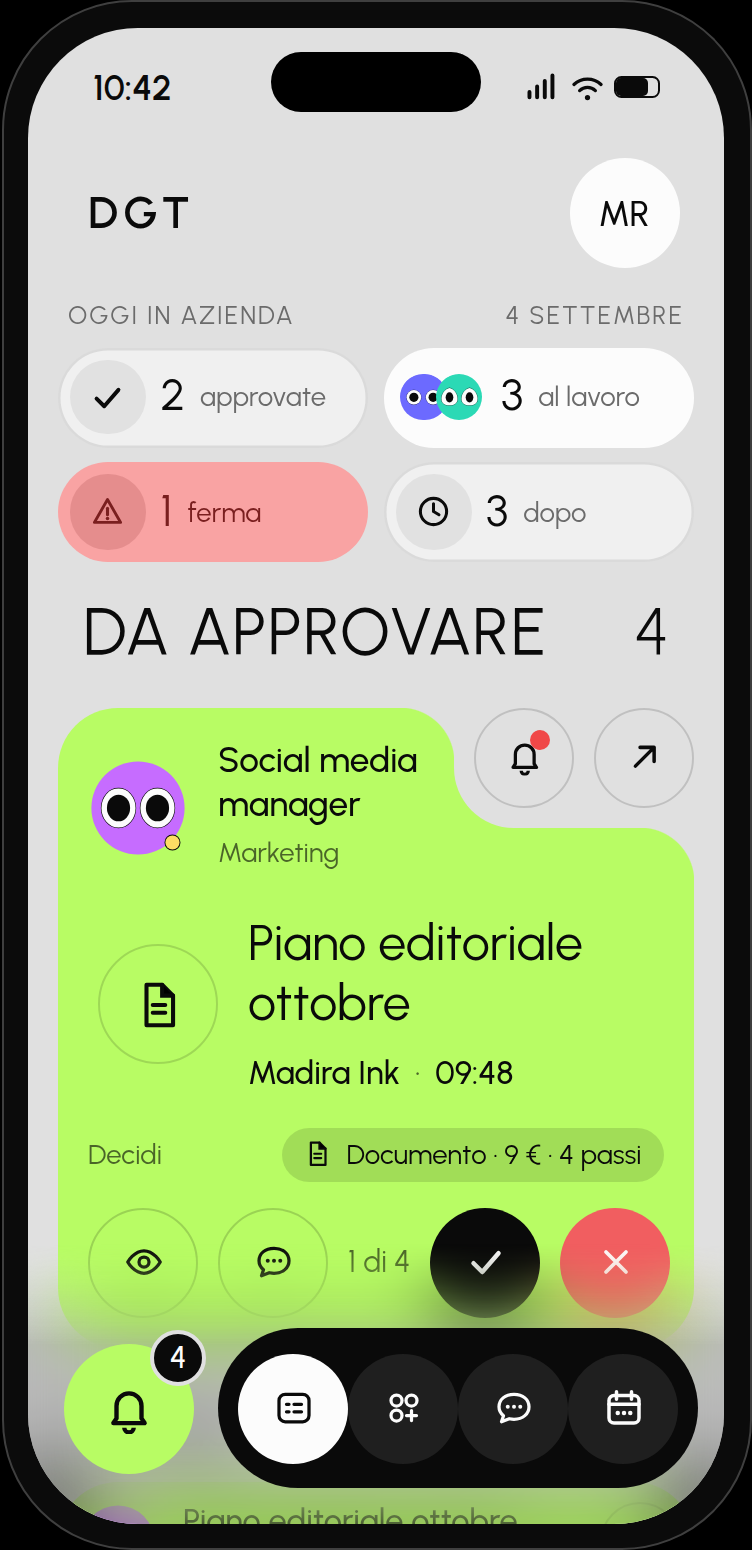
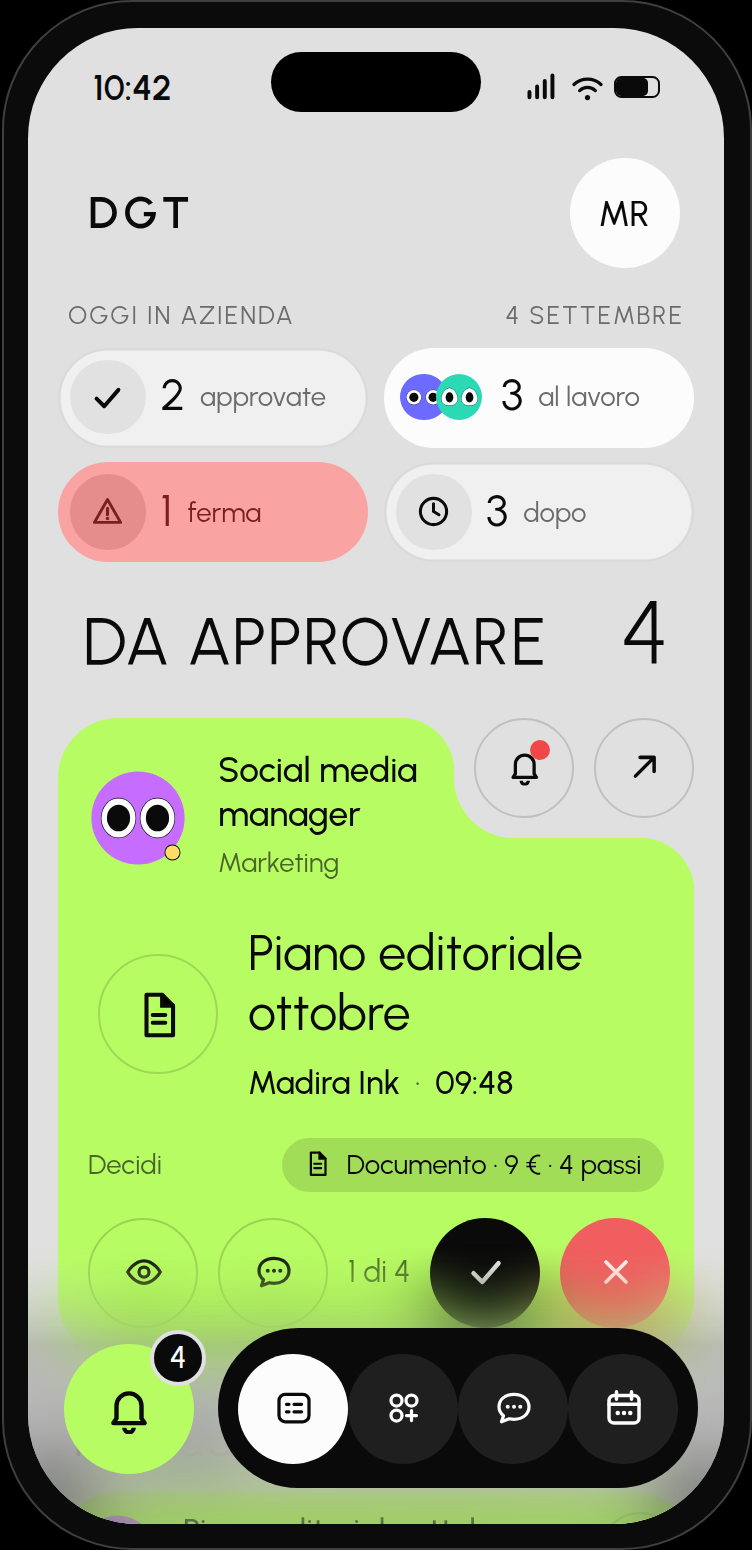
Telefono: il conto nel titolo passa a 36 (scelta dell'utente)
CONTA = 2 in mobile.js: la «strada di mezzo» diventa la forma attiva
della schermata 1, il conto a 26 resta dietro ?conta=1 come forma
scartata. La ragione, con i tre telefoni affiancati davanti: a 26 il
numero si legge come la coda del titolo, a 36 torna a essere un conto —
quello che faceva la riga dei due numeri grandi, e che le costava 78 px.
Qui ne costa 4.

Il prezzo vero non sono i 4 px di card ma il margine sotto: la riga con
approva e rifiuta passa da 4 px di stacco sopra la barra di navigazione
a 0. Ci sta ancora tutta e la prova lo controlla a ogni giro, ma non
c'e piu niente da spendere.

Corretto anche il commento della versione 17 che motivava il titolo a
26 px con lo spazio del conto a due cifre: il conto non c'entra, ci sta
fino a tre cifre a 26 come a 36. Quello che manda il titolo a capo e la
larghezza della parola.

Cambiano due catture su 51 (m-quadro-duedue e -40): tutto quello che
scende di 4 px. Prove: mobile 74 -> 75, in tutto 284.

Claude-Session: https://claude.ai/code/session_01THzjTQkyQYxd6RnE8P6BiM

diff --git a/schermate/direzioni/prove/mobile.js b/schermate/direzioni/prove/mobile.js
@@ -120,9 +120,10 @@ const check = (cond, msg) => { if (cond) { ok++; console.log('  ok  ' + msg); } 
   await page.goto(file('n=40')); await page.waitForTimeout(600);
   check(await conta(tel(1) + '.m-quadro.duedue .qq') === 4 && await page.evaluate(() => [...document.querySelectorAll('.m-quadro .qq > span:not(.ico):not(.pair)')].every(e => e.scrollWidth <= e.clientWidth + 1)), 'il quadro «due per due» regge anche a quaranta, senza tagli');
   /* Il prezzo della forma 2: è alta 118 px e spinge giù la card della richiesta. Le due misure che contano, sulla schermata
-     che serve a decidere: quanta card resta visibile sopra la barra di navigazione (senza quadro 256 su 256, con la 2
-     misurati 248; la forma 3, scartata, ne lasciava 240) e se la riga con approva e rifiuta ci sta sopra — prima di
-     togliere la riga dei due numeri grandi finiva sotto. Se un domani il quadro cresce, queste due lo dicono subito. */
+     che serve a decidere: quanta card resta visibile sopra la barra di navigazione (senza quadro 256 su 256, con la 2 e
+     il conto a 36 — la forma scelta — misurati 244; la forma 3 del quadro, scartata, ne lasciava 240) e se la riga con
+     approva e rifiuta ci sta sopra — prima di togliere la riga dei due numeri grandi finiva sotto. Se un domani il
+     quadro cresce, queste due lo dicono subito. */
   await page.goto(file('')); await page.waitForTimeout(600);
   const misure = await page.evaluate(() => {
     const Z = 1.25, tel = document.querySelector('.m-tel'), nav = tel.querySelector('.m-bnav').getBoundingClientRect();
@@ -130,12 +131,13 @@ const check = (cond, msg) => { if (cond) { ok++; console.log('  ok  ' + msg); } 
     const riga = tel.querySelector('.ncard.task .st .row').getBoundingClientRect();
     return { visibile: Math.round((Math.min(card.bottom, nav.top) - card.top) / Z), sopra: riga.bottom <= nav.top, spazio: Math.round((nav.top - riga.bottom) / Z) };
   });
-  check(misure.visibile >= 245, `della card della richiesta restano visibili ${misure.visibile} px su 256 sopra la navigazione`);
+  check(misure.visibile >= 240, `della card della richiesta restano visibili ${misure.visibile} px su 256 sopra la navigazione`);
   check(misure.sopra, `la riga con approva e rifiuta sta sopra la navigazione (${misure.spazio} px di margine)`);
-  /* Lo studio della misura del conto nel titolo (2026-09-07): `?conta=` mette a confronto le tre forme. Quella scelta
-     resta la 1 (numero a 26, come il titolo); la 2 è la strada di mezzo (numero a 36) e costa 4 px di card; la 0 rimette
-     la riga dei due numeri grandi e fa ricadere la riga di approva e rifiuta sotto la navigazione — è il prezzo che la
-     forma 2 del quadro ha già pagato una volta, e questa prova impedisce di ripagarlo per sbaglio. */
+  /* Lo studio della misura del conto nel titolo (2026-09-07): `?conta=` mette a confronto le tre forme. La scelta
+     dell'utente è la 2, «la strada di mezzo» (titolo a 26, conto a 36), ed è quella che il telefono disegna senza
+     parametri; la 1 (conto a 26, come il titolo) è la forma scartata; la 0 rimette la riga dei due numeri grandi e fa
+     ricadere la riga di approva e rifiuta sotto la navigazione — è il prezzo che la forma 2 del quadro ha già pagato
+     una volta, e questa prova impedisce di ripagarlo per sbaglio. */
   const cardVisibile = () => page.evaluate(() => {
     const Z = 1.25, tel = document.querySelector('.m-tel'), nav = tel.querySelector('.m-bnav').getBoundingClientRect();
     const card = tel.querySelector('.ncard.task').getBoundingClientRect();
@@ -144,10 +146,9 @@ const check = (cond, msg) => { if (cond) { ok++; console.log('  ok  ' + msg); } 
     return { visibile: Math.round((Math.min(card.bottom, nav.top) - card.top) / Z), sopra: riga.bottom <= nav.top,
       misura: num ? getComputedStyle(num).fontSize : '', righe: Math.round((h1.getBoundingClientRect().height / Z - 12) / (parseFloat(getComputedStyle(h1).lineHeight) / Z)) };
   });
-  await page.goto(file('conta=2')); await page.waitForTimeout(600);
-  const mezzo = await cardVisibile();
-  check(mezzo.misura === '36px' && mezzo.righe === 1, 'la strada di mezzo: il conto sale a 36 e il titolo resta su una riga');
-  check(mezzo.sopra && mezzo.visibile >= 240, `e costa 4 px: della card ne restano ${mezzo.visibile}, con la riga di approva e rifiuta ancora sopra la navigazione`);
+  const mezzo = await cardVisibile();   // il telefono senza parametri: è già la forma scelta
+  check(mezzo.misura === '36px' && mezzo.righe === 1, 'la forma scelta: il conto sta a 36 e il titolo resta su una riga');
+  check(mezzo.sopra && mezzo.visibile >= 240, `e costa 4 px rispetto al conto a 26: della card ne restano ${mezzo.visibile}, con la riga di approva e rifiuta ancora sopra la navigazione`);
   /* il titolo non va a capo con nessun conto: a undici sono 4, ma il numero non ha un tetto nel modello */
   check(await page.evaluate(() => {
     const h1 = document.querySelector('.m-tel .m-h1.conta'), num = h1.querySelector('b'), era = num.textContent;
@@ -155,6 +156,9 @@ const check = (cond, msg) => { if (cond) { ok++; console.log('  ok  ' + msg); } 
       return r.right <= c.right + 0.5 && c.height / 1.25 <= 50; });
     num.textContent = era; return ok;
   }), 'e regge fino a tre cifre senza sforare né andare a capo');
+  await page.goto(file('conta=1')); await page.waitForTimeout(600);
+  const stretto = await cardVisibile();
+  check(stretto.misura === '26px' && stretto.visibile > mezzo.visibile, `?conta=1 disegna la forma scartata: il conto torna a 26 come il titolo e la card guadagna ${stretto.visibile - mezzo.visibile} px`);
   await page.goto(file('conta=0')); await page.waitForTimeout(600);
   const riga0 = await cardVisibile();
   check(await conta(tel(1) + '.m-stats .m-stat') === 2 && !riga0.sopra, `?conta=0 rimette la riga dei due numeri grandi, e la riga di approva e rifiuta ritorna sotto la navigazione (${riga0.visibile} px di card su 256): è il prezzo che la forma 2 ha pagato`);

diff --git a/schermate/direzioni/mobile.js b/schermate/direzioni/mobile.js
@@ -317,16 +317,19 @@ window.DGT_MOBILE = (function () {
    2. cade la riga dei due numeri grandi (78 px). «Approvate oggi» era lo stesso conto della casella «approvate» del
       quadro a 60 px di distanza (correzione 16a: un elemento fisso non ripete quello che un altro dice già); «da
       approvare» resta, ma dentro il titolo, che diceva già la stessa parola.
-   Risultato misurato: della card restano visibili 238 px su 256 (erano 162; la forma 3, scartata, ne lasciava 240).
+   Risultato misurato: della card restano visibili 244 px su 256 col conto a 36 (la scelta), 248 col conto a 26; erano 176
+   con la riga dei due numeri grandi, e la forma 3 del quadro, scartata, ne lasciava 240.
    Col quadro 0, 1 o 3 la riga dei due numeri grandi resta com'era.
-   Il titolo col conto sta a 26 px e non a 30: la riga ha 234 px liberi e a 30 «DA APPROVARE» ne chiede 214, che col numero
-   e lo stacco fanno 243 e mandano il titolo a capo. A 26 ne chiede 186: 215 in tutto, e restano 19 px anche col conto a due
-   cifre. È anche la misura dei numeri grandi che sostituisce, così titolo e conto si leggono come una riga sola. */
+   Il titolo sta a 26 px e non a 30 per la larghezza della PAROLA, non per la misura del numero: la riga ha 222 px liberi e
+   a 30 «DA APPROVARE» ne chiede 214, che col numero e lo stacco mandano il titolo a capo; a 26 ne chiede 186. Il conto
+   invece ci sta a 26 come a 36, e fino a tre cifre, senza sforare né andare a capo (misurato: la prova lo controlla). */
 .m-h1.conta{display:flex;align-items:baseline;justify-content:space-between;gap:12px;font-size:26px;line-height:32px;white-space:nowrap;padding-top:12px}
 .m-h1.conta b{font-weight:300;font-size:26px;line-height:30px;flex:none;letter-spacing:0}
-/* la strada di mezzo (?conta=2): il titolo resta a 26 e il conto sale a 36, così il numero torna a essere la prima cosa
-   che si vede — quello che faceva la riga dei due numeri grandi — senza ricomprarne i 78 px di altezza. La riga non
-   cresce perché il numero eredita l'interlinea del titolo e le cifre non hanno discendenti. */
+/* la strada di mezzo (?conta=2, LA SCELTA DELL'UTENTE del 2026-09-07): il titolo resta a 26 e il conto sale a 36, così
+   il numero torna a essere la prima cosa che si vede — quello che faceva la riga dei due numeri grandi — senza
+   ricomprarne i 78 px di altezza. La riga cresce di 4 px e basta, perché il numero eredita l'interlinea del titolo e le
+   cifre non hanno discendenti; e regge fino a tre cifre senza sforare né andare a capo (misurato). Il conto a 26,
+   dietro ?conta=1, è la forma scartata. */
 .m-h1.conta.grande b{font-size:36px;line-height:32px}
 /* forma 3 «la riga che parla» (scartata): una riga sola, le tre caselle che chiedono un'azione, numero e parola accanto.
    Niente pila: con la pila le tre caselle sommano 273 px e la colonna ne dà 254. */
@@ -441,10 +444,12 @@ window.DGT_MOBILE = (function () {
   const QUADRO = 2;
 
   /* La misura del conto nel titolo della schermata 1 (studio del 2026-09-07, dopo la scelta della forma 2). Col quadro
-     «due per due» la riga dei due numeri grandi è caduta e «da approvare» è passato nel titolo: resta da decidere quanto
-     grande sia quel numero. 1 = come il titolo (26); 2 = la strada di mezzo, titolo 26 e numero 36; 0 = la riga dei due
-     numeri grandi torna al suo posto. `?conta=` sceglie. */
-  const CONTA = 1;
+     «due per due» la riga dei due numeri grandi è caduta e «da approvare» è passato nel titolo, e restava da decidere
+     quanto grande fosse quel numero. Tre forme messe a confronto nel telefono vero, `?conta=` le sceglie: 1 = come il
+     titolo (26); 2 = la strada di mezzo, titolo 26 e numero 36; 0 = la riga dei due numeri grandi torna al suo posto.
+     LA SCELTA DELL'UTENTE È LA 2 (2026-09-07): a 26 il numero si legge come la coda del titolo, a 36 torna a essere un
+     conto — quello che faceva la riga dei due numeri grandi, e che le costava 78 px di altezza. Qui ne costa 4. */
+  const CONTA = 2;
 
   /* ---------- il quadro del giorno (versione 17, 2026-09-07) ----------
      La barra «Oggi in azienda» della Console sul telefono. Stessi conti (`m.gruppiOggi()`), tre forme messe a confronto
@@ -502,8 +507,8 @@ window.DGT_MOBILE = (function () {
         ${st.quadro === 2 && st.conta
           /* con il quadro «due per due» il titolo porta il conto e la riga dei due numeri grandi cade: «approvate oggi» lo
              dice già la casella del quadro (correzione 16a) e «da approvare» lo dice il titolo. Vedi il commento sotto.
-             ?conta= sceglie la misura del numero: 1 come il titolo (26), 2 la strada di mezzo (36), 0 rimette la riga dei
-             due numeri grandi anche col quadro 2, per il confronto. */
+             ?conta= sceglie la misura del numero: 2 la strada di mezzo (36, la scelta dell'utente), 1 come il titolo (26,
+             la forma scartata), 0 rimette la riga dei due numeri grandi anche col quadro 2, per il confronto. */
           /* niente spazio fra la parola e il numero: sono due elementi flex e lo spazio, con nowrap, allarga il primo
              quanto basta a mandare il titolo a capo (misurato: 234 px liberi, 222 senza spazio, oltre con) */
           ? `<h3 class="m-h1 conta${st.conta === 2 ? ' grande' : ''}">DA APPROVARE<b>${c.length}</b></h3>`

diff --git a/schermate/direzioni/mobile.html b/schermate/direzioni/mobile.html
@@ -21,7 +21,7 @@
   // 1 Da approvare · 2 Richiesta · 3 Riepilogo di oggi · 4 Chat · 5 Conversazione · 6 Agenda · 7 Dipartimenti · 8 Dipartimento.
   // ?richiesta=0 (indice nella coda)  ?filo=<id dipendente>  ?dip=svi|mkt|ven|amm (il dipartimento della schermata 8)
   // ?quadro=0|1|2|3 il quadro del giorno in cima alla schermata 1 (versione 17). Scelta: 2 «due per due»; 1 «le quattro a due piani» e 3 «la riga che parla» sono le forme scartate dello studio; 0 = niente, il telefono di prima
-  // ?conta=0|1|2 la misura del conto nel titolo della schermata 1 (solo col quadro 2): 1 come il titolo (26, la scelta), 2 la strada di mezzo (numero a 36), 0 rimette la riga dei due numeri grandi
+  // ?conta=0|1|2 la misura del conto nel titolo della schermata 1 (solo col quadro 2). Scelta: 2 «la strada di mezzo», numero a 36; 1 è il conto a 26 come il titolo (scartato) e 0 rimette la riga dei due numeri grandi
   // ?n=11|40 e gli stessi parametri dell'avatar della Console (?avatar= ?pelle= ?identita= ?palette= ?corpo= ?occhi= ?segnale= ?carattere=)
   const q = new URLSearchParams(location.search);
   DGT_UI.iconeInserisci();

diff --git a/PROSSIMA-SESSIONE.md b/PROSSIMA-SESSIONE.md
@@ -76,7 +76,7 @@ Sull'insieme di riferimento (a quaranta i numeri crescono, le famiglie no). Tabe
 ### Verifica
 
 - **Le quattro prove cliccate passano**: `console.js` **107** (erano 97: dieci verifiche nuove sulle frecce),
-  `mobile.js` **74** (era 69: una sulle frecce e quattro sullo studio del conto nel titolo), `costi.js` 48, `agenda-chat.js` 54. In tutto **283** (erano 268).
+  `mobile.js` **75** (era 69: una sulle frecce e cinque sullo studio del conto nel titolo), `costi.js` 48, `agenda-chat.js` 54. In tutto **284** (erano 268).
 - Zero frecce senza azione su tredici pagine, quattro viste e le due taglie; le due dell'anteprima dell'editor sono
   contate a parte e dichiarate.
 - **Sessantacinque liste** con più di una riga, tutte con le righe sulla stessa griglia (è la prova che tiene in piedi
@@ -116,14 +116,28 @@ e affiancate in `m-conta-titolo.png`:
 
 | `?conta=` | Che cos'è | Card visibile | La riga di approva e rifiuta |
 |---|---|---|---|
-| **1** (la scelta di adesso) | conto a 26, come il titolo | 248 px su 256 | sopra, 4 px di margine |
-| **2** (la strada di mezzo) | titolo a 26, conto a **36** | 244 px su 256 | sopra |
+| **2 · la scelta dell'utente** | titolo a 26, conto a **36** | 244 px su 256 | sopra, 0 px di margine |
+| **1** (scartata) | conto a 26, come il titolo | 248 px su 256 | sopra, 4 px di margine |
 | **0** (com'era prima) | la riga dei due numeri grandi | 176 px su 256 | **sotto** |
 
-**La strada di mezzo costa 4 px** e nessuna delle due va a capo, nemmeno con un conto a tre cifre. Una correzione a
-quello che diceva la versione 17: il titolo sta a 26 px per la larghezza della *parola*, non per la misura del numero.
-Quattro verifiche nuove in `prove/mobile.js`. **`CONTA = 1` resta la forma attiva** finché l'utente non sceglie: le
-undici catture del telefono sono identiche byte per byte.
+**La strada di mezzo costa 4 px** e nessuna delle due va a capo, nemmeno con un conto a tre cifre. La ragione della
+scelta, con i tre telefoni affiancati davanti: a 26 il numero si legge come la coda del titolo, a 36 torna a essere un
+conto — quello che faceva la riga dei due numeri grandi, e che le costava 78 px.
+
+Una correzione a quello che diceva la versione 17: il titolo sta a 26 px per la larghezza della *parola*, non per la
+misura del numero.
+
+**Il prezzo vero non sono i 4 px di card ma il margine sotto**: la riga con approva e rifiuta passa da 4 px di stacco
+sopra la barra di navigazione a **0**. Ci sta ancora tutta e la prova lo controlla a ogni giro, ma non c'è più niente da
+spendere: se un domani il quadro o la card crescono di un pixel, la riga della decisione finisce sotto. **Cinque
+verifiche** in `prove/mobile.js` tengono le tre forme e quel margine.
+
+Cambiano **due catture su 51**, `m-quadro-duedue.png` e `m-quadro-duedue-40.png`, ed è tutto quello che scende di 4 px.
+Ripubblicato **il solo artefatto del telefono**: la Console non carica `mobile.js` e non cambia (controllato).
+
+**Attenzione, una cattura instabile**: `a-11.png` cambia di **5 pixel** (riquadro `x 1136–1415, y 173–175`) anche fra due
+giri identici, senza toccare niente. È un'instabilità preesistente, non una regressione: quando compare in un confronto
+prima/dopo va riconosciuta e la cattura riportata com'era, se no sporca il diff.
 
 ## Decisioni dell'utente (in ordine)
 
@@ -297,6 +311,16 @@ undici catture del telefono sono identiche byte per byte.
       che cosa **non** è un dubbio progettuale — quello che si può misurare o contare — e che il contesto va scritto per
       esteso, perché è la parte che decide la qualità della risposta.
 
+42. **2026-09-07: l'utente conferma le due cose che erano rimaste aperte.**
+    - **Il conto nel titolo è la 36**, «la strada di mezzo»: `CONTA = 2` in `mobile.js`, il conto a 26 resta dietro
+      `?conta=1` come forma scartata. Cambiano due catture su 51 e la riga della decisione resta sopra la barra con 0 px
+      di margine — vedi «Coda» nello Stato.
+    - **Chi parla nel filo del dipartimento: confermata la proposta del consiglio**, cioè **DGT che indossa il
+      dipartimento** (disco con l'icona del dipartimento, nome «Coordinamento ‹dipartimento›»; il prompt di
+      coordinamento è una proprietà del dipartimento, versionato; il costo va sulla riga «coordinamento» del
+      dipartimento). Niente Coordinatore come dipendente nuovo: il conto dei dipendenti non cambia. **Questa è una
+      decisione di progetto, non codice scritto**: il candidato 5 resta da costruire.
+
 Vincolo che vale sempre: nessun logo, foto o marchio di terzi (i modelli sono livelli neutri di DGT: Rapido, Standard,
 Esperto; il riferimento lilguy.net è stato studiato, non copiato); contenuti sintetici di DGT; documenti in italiano.
 
@@ -331,8 +355,10 @@ dipendenti fra loro e condividere memorie e conoscenze per un obiettivo comune.
   l'archivio come **oggetto di prima classe** con l'interfaccia che mostra chi ci ha messo cosa e chi l'ha usata; le
   dipendenze come **legame sull'obiettivo o sull'esecuzione**.
 
-**Le due domande sono state portate all'utente il 2026-09-07 e la prima è passata da un consiglio di cinque pareri
-indipendenti con revisione incrociata anonima** (`llm-council`). Il verdetto, da confermare con lui:
+**Tutte e due le domande hanno risposta (2026-09-07): non si riaprono.** La prima è passata da un consiglio di cinque
+pareri indipendenti con revisione incrociata anonima (`llm-council`) e **l'utente ha confermato il verdetto**
+(decisione 42); la seconda l'ha decisa lui con i nomi che ha scelto (decisione 41). Quello che resta da fare è
+**costruirlo**. Il verdetto, adesso vincolante:
 
 - **Chi parla nel filo: DGT che indossa il dipartimento** (la strada «economica», ma non nella forma nuda). Tre
   consiglieri su cinque avevano scelto il Coordinatore-dipendente; tutti e cinque però hanno proposto una terza strada, e
@@ -355,9 +381,10 @@ indipendenti con revisione incrociata anonima** (`llm-council`). Il verdetto, da
   servire); e va deciso se i dipendenti **possono rispondere** nel filo del dipartimento — se no non è una chat, è un
   modulo.
 
-**Le due domande, per esteso** (se l'utente non le conferma, vanno rifatte prima di scrivere):
+**Le due domande per esteso, con la risposta data** (restano scritte perché la risposta si capisca):
 
-1. **Chi parla nel filo del dipartimento?** Un dipartimento non è una persona. Risposta economica: parla **DGT**, con i
+1. **Chi parla nel filo del dipartimento? RISPOSTA: DGT che indossa il dipartimento** (confermata dall'utente, decisione
+   42). Un dipartimento non è una persona. Risposta economica: parla **DGT**, con i
    messaggi `sistema` che già esistono e che il filo sa già disegnare — zero personaggi nuovi. Risposta ambiziosa: un
    **Coordinatore** di dipartimento, un dipendente vero con avatar, tinta e voce (il ruolo esiste già nel vocabolario
    degli avatar, `avatar-motore.js`: «il fulcro stabile della squadra») — più caldo, ma è un personaggio nuovo nel
@@ -414,16 +441,18 @@ stato toccato, con la verifica byte per byte alle spalle (vedi «Stato»). Quind
 cominciare. Quando si ripubblica: `build-unico.js`, poi lo strumento con `url`, dopo aver letto la versione pubblicata
 per intero (vedi «Note tecniche»).
 
-**Prima cosa: sentire l'utente sulla versione 18.** Le frecce toccano ogni riga e ogni card, ed è il primo lavoro in cui
-il prodotto *perde* qualcosa da tutte le parti: le catture del prima/dopo (`a-frecce-*.png`) sono fatte apposta per
-questo. Se manda correzioni, quelle vengono prima di tutto il resto.
+**Prima cosa: il candidato 5, la chat di dipartimento.** Le due domande che lo bloccavano hanno risposta (decisioni 41
+e 42): parla **DGT che indossa il dipartimento**, e la distribuzione ha la pillola **`Fai pure` / `Chiedimi prima`**.
+Non manca più una decisione, manca il codice — ma **prima di scriverlo va fatta vedere la forma** che prende sulla
+pagina Dipartimento della Console e sul telefono, come sempre.
 
-**Poi il candidato 5, la chat di dipartimento**, che è il prossimo nell'ordine che ha scelto lui. **Le due domande sopra
-vanno risposte prima di scrivere codice**: chi parla nel filo, e se la distribuzione passa dall'approvazione.
+**Resta da sentire il giudizio sulla versione 17 e sulla 18.** Le frecce toccano ogni riga e ogni card, ed è il primo
+lavoro in cui il prodotto *perde* qualcosa da tutte le parti: le catture del prima/dopo (`a-frecce-*.png`) sono fatte
+apposta per questo. Se manda correzioni, quelle vengono prima di tutto il resto.
 
 **Non rimettere in discussione**: la direzione A, la barra «Oggi in azienda» della versione 16 con la correzione 16a, la
-versione 17 (il quadro «due per due», i Dipartimenti, la regola 25), la regola 26 delle frecce, gli avatar della versione
-10, la regola «niente emoji».
+versione 17 (il quadro «due per due», i Dipartimenti, la regola 25), la regola 26 delle frecce, il conto nel titolo a 36,
+le due risposte del candidato 5 (decisioni 41 e 42), gli avatar della versione 10, la regola «niente emoji».
 
 **Il metodo di sempre**, e da adesso con una regola in più: **ogni dubbio progettuale passa dal consiglio prima del
 codice** (`llm-council`, regola fondamentale in `CLAUDE.md`, decisione 41). Non tutto è un dubbio progettuale: quello che
@@ -459,7 +488,7 @@ non un controllo) e le quattro liste miste, in cui la colonna resta e qualche ce
   `node schermate/direzioni/prove/console.js` (**107**: tendine, Richieste, editor del dipendente, esecuzione, 40, la barra
   «Oggi in azienda» e la barra dei passi, i controlli delle intestazioni di sezione e, dalla versione 18, **le frecce di
   riga**: zero inerti su tredici pagine, le 65 liste allineate, il confronto che si apre dalla revisione passata),
-  `mobile.js` (**74**: gli otto telefoni, la revisione, le frecce, il rifiuto con motivo, la prova, lo stato vuoto, 40, il
+  `mobile.js` (**75**: gli otto telefoni, la revisione, le frecce, il rifiuto con motivo, la prova, lo stato vuoto, 40, il
   quadro del giorno e la tab Dipartimenti; a ogni passo nessuno schermo che scorre di lato e console pulita), `costi.js`
   (48) e `agenda-chat.js` (54); da qualunque cartella, leggono anche `CHROME_PATH`, girano con `reducedMotion: 'reduce'`,
   escono con 1 se una verifica fallisce. Attenzione: Playwright scorre da solo per cliccare un elemento fuori dallo
@@ -563,12 +592,11 @@ non un controllo) e le quattro liste miste, in cui la colonna resta e qualche ce
 1. **Il giudizio dell'utente sulla versione 18**: le frecce toccano ogni riga e ogni card, e le catture del prima/dopo
    sono pronte. In particolare va risollevata la scelta della decisione 40 sulle **liste miste** (la colonna che resta
    con la cella vuota): è l'unica che si vede e si può ribaltare.
-2. **La chat di dipartimento (candidato 5)**: la seconda domanda ha risposta (la pillola `Fai pure` / `Chiedimi prima`,
-   decisione 41). **Resta aperta la prima**: chi parla nel filo. Il consiglio ha dato il suo verdetto — DGT che indossa
-   il dipartimento — ma l'utente non l'ha ancora confermato, e finché non lo fa non si scrive.
-3. **La scelta fra le tre misure del conto nel titolo** (`?conta=0|1|2`, studio del 2026-09-07): l'utente ha visto le tre
-   forme affiancate in `m-conta-titolo.png` e deve dire quale tiene. Finché non decide resta la 1. Resta anche da sentire
-   il **giudizio sulla versione 17** (i Dipartimenti, i controlli).
+2. **La chat di dipartimento (candidato 5): tutte e due le domande hanno risposta** (decisioni 41 e 42), quindi non
+   manca più una decisione, manca il **codice**. È il lavoro della prossima sessione, e prima di scriverlo va fatta
+   vedere la forma che prende sulla pagina Dipartimento della Console e sul telefono.
+3. **Il giudizio sulla versione 17** (i Dipartimenti, i controlli) e su tutta la 18: mai dato. La misura del conto nel
+   titolo invece è decisa (la 36, decisione 42).
 4. I giudizi in sospeso delle versioni 6, 8, 11, 12, 14, 15 e 15a; le scelte di dettaglio della barra (decisioni 33 e 34).
 5. I punti aperti elencati in «Come riprendere».
 
@@ -582,16 +610,18 @@ Lavoriamo nella direzione A · Console (schermate/componenti.js, schermate/direz
 avatar/, mobile.js): niente emoji, solo le icone dello sprite; gli avatar sono quelli della versione 10; i colori
 restano quelli del sistema. Sono decise e non si rimettono in discussione: la direzione A, la barra «Oggi in azienda»
 della versione 16 con la correzione 16a, la versione 17 (quadro «due per due», Dipartimenti, regola 25) e la regola 26
-delle frecce di riga della versione 18.
+delle frecce di riga della versione 18, e il conto nel titolo della schermata 1 nella misura da 36.
 
 Vale la regola fondamentale nuova: ogni dubbio progettuale passa dal consiglio (llm-council) prima del codice, con il
 contesto scritto per esteso a ogni consigliere. Quello che si può misurare o contare non è un dubbio progettuale: lì
 misuri.
 
-Questa sessione facciamo il candidato 5, la chat di dipartimento. Della seconda domanda ho già deciso: la pillola nella
-barra di scrittura con «Fai pure» e «Chiedimi prima», predefinito «Chiedimi prima», ricordata per dipartimento, e vale
-sulla distribuzione dei compiti, mai sulle consegne. Resta aperta la prima: chi parla nel filo. Riportami il verdetto
-del consiglio (DGT che indossa il dipartimento) con le sue conseguenze, e aspetta che scelga.
+Questa sessione costruiamo il candidato 5, la chat di dipartimento. Le due domande sono già decise e non si riaprono:
+nel filo parla DGT che indossa il dipartimento (disco con l'icona del dipartimento, nome «Coordinamento ‹dipartimento›»,
+prompt di coordinamento come proprietà del dipartimento e versionato, costo sulla riga «coordinamento» del
+dipartimento, nessun Coordinatore come dipendente nuovo); e la distribuzione ha la pillola nella barra di scrittura con
+«Fai pure» e «Chiedimi prima», predefinito «Chiedimi prima», ricordata per dipartimento, valida sulla distribuzione dei
+compiti e mai sulle consegne.
 
 Poi costruisci nell'ordine che consigli tu: prima il filo di dipartimento (scrivere al dipartimento, i messaggi che
 arrivano ai fili dei singoli citando l'origine), poi la distribuzione. Prima di scrivere fammi vedere che forma prende

diff --git a/schermate/direzioni/DIREZIONI.md b/schermate/direzioni/DIREZIONI.md
@@ -1618,8 +1618,15 @@ ci sta. Il titolo sta a 26 per la sua larghezza, non per la misura del numero.
 Quattro verifiche nuove in `prove/mobile.js` inchiodano le tre misure, e la terza (`?conta=0` che rifà cadere la riga di
 approva e rifiuta sotto la navigazione) impedisce di ripagare per sbaglio un prezzo già pagato una volta.
 
-**La forma scelta resta la 1** finché l'utente non decide: `CONTA = 1` in `mobile.js`, le altre due dietro il parametro
-come `?quadro=1|3`. Le undici catture del gruppo `quadro` e `dip` sono identiche byte per byte prima e dopo.
+**La scelta dell'utente è la 2** (2026-09-07): `CONTA = 2` in `mobile.js`, le altre due restano dietro il parametro come
+`?quadro=1|3`. La ragione, con i tre telefoni affiancati davanti: **a 26 il numero si legge come la coda del titolo, a 36
+torna a essere un conto** — che è quello che faceva la riga dei due numeri grandi, e che le costava 78 px di altezza. Qui
+ne costa 4.
+
+Il prezzo vero della scelta non sono i 4 px di card ma il margine sotto: la riga con approva e rifiuta passa da 4 px di
+stacco sopra la barra di navigazione a **0**. Ci sta ancora tutta — la prova lo controlla a ogni giro — ma non c'è più
+niente da spendere: se un domani il quadro o la card crescono di un pixel, la riga della decisione finisce sotto, ed è la
+prova a dirlo prima delle catture.
 
 
 ## 5. File
